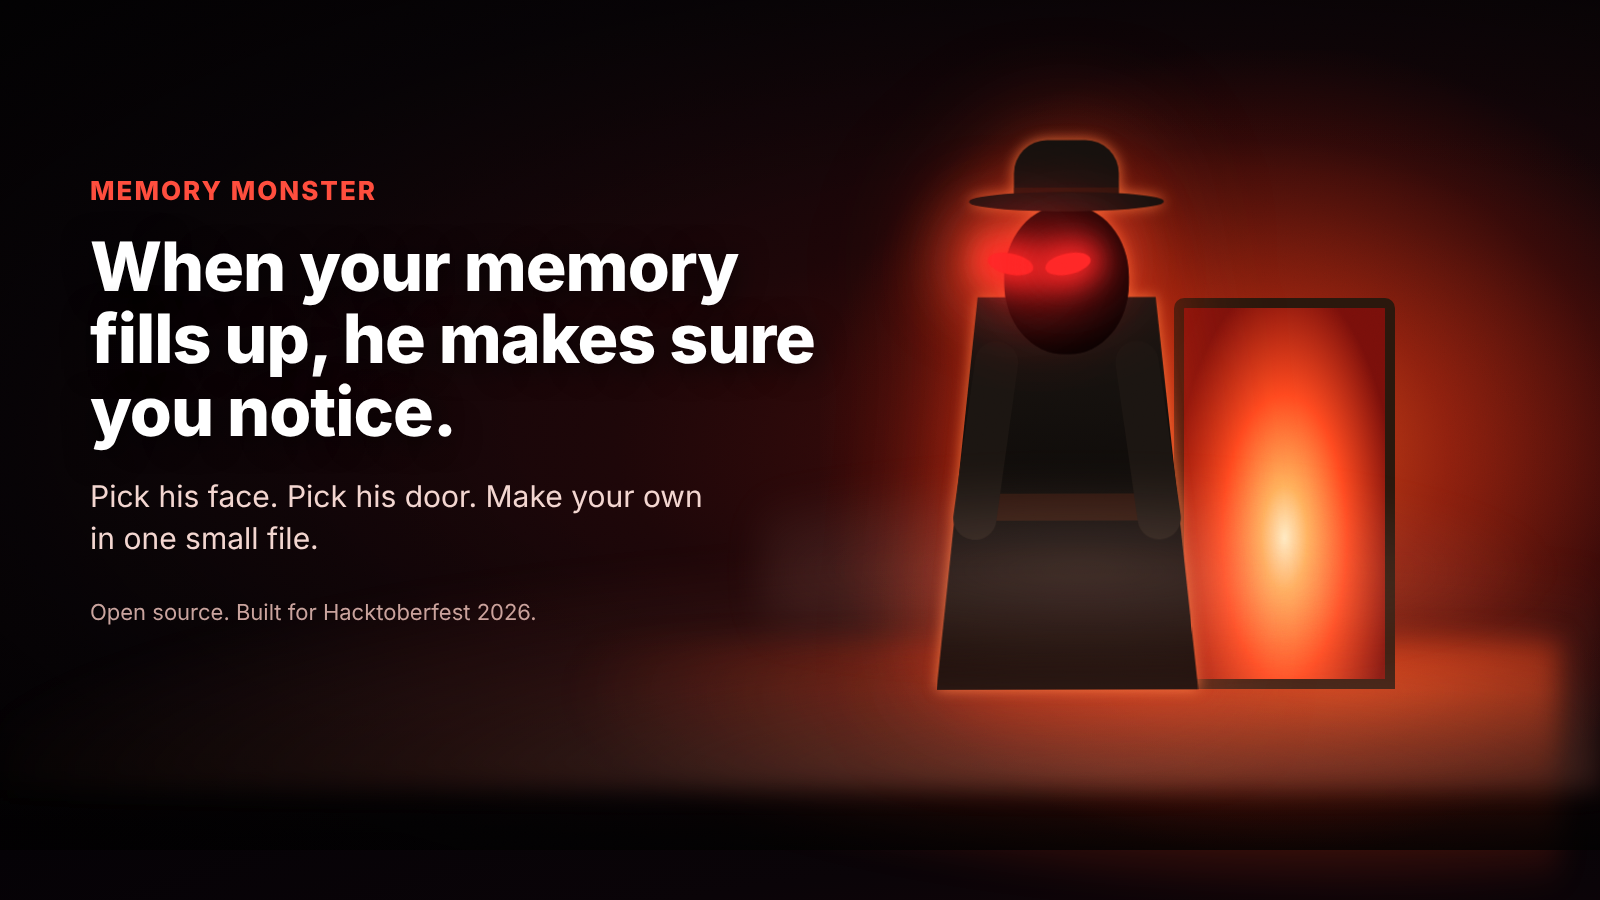
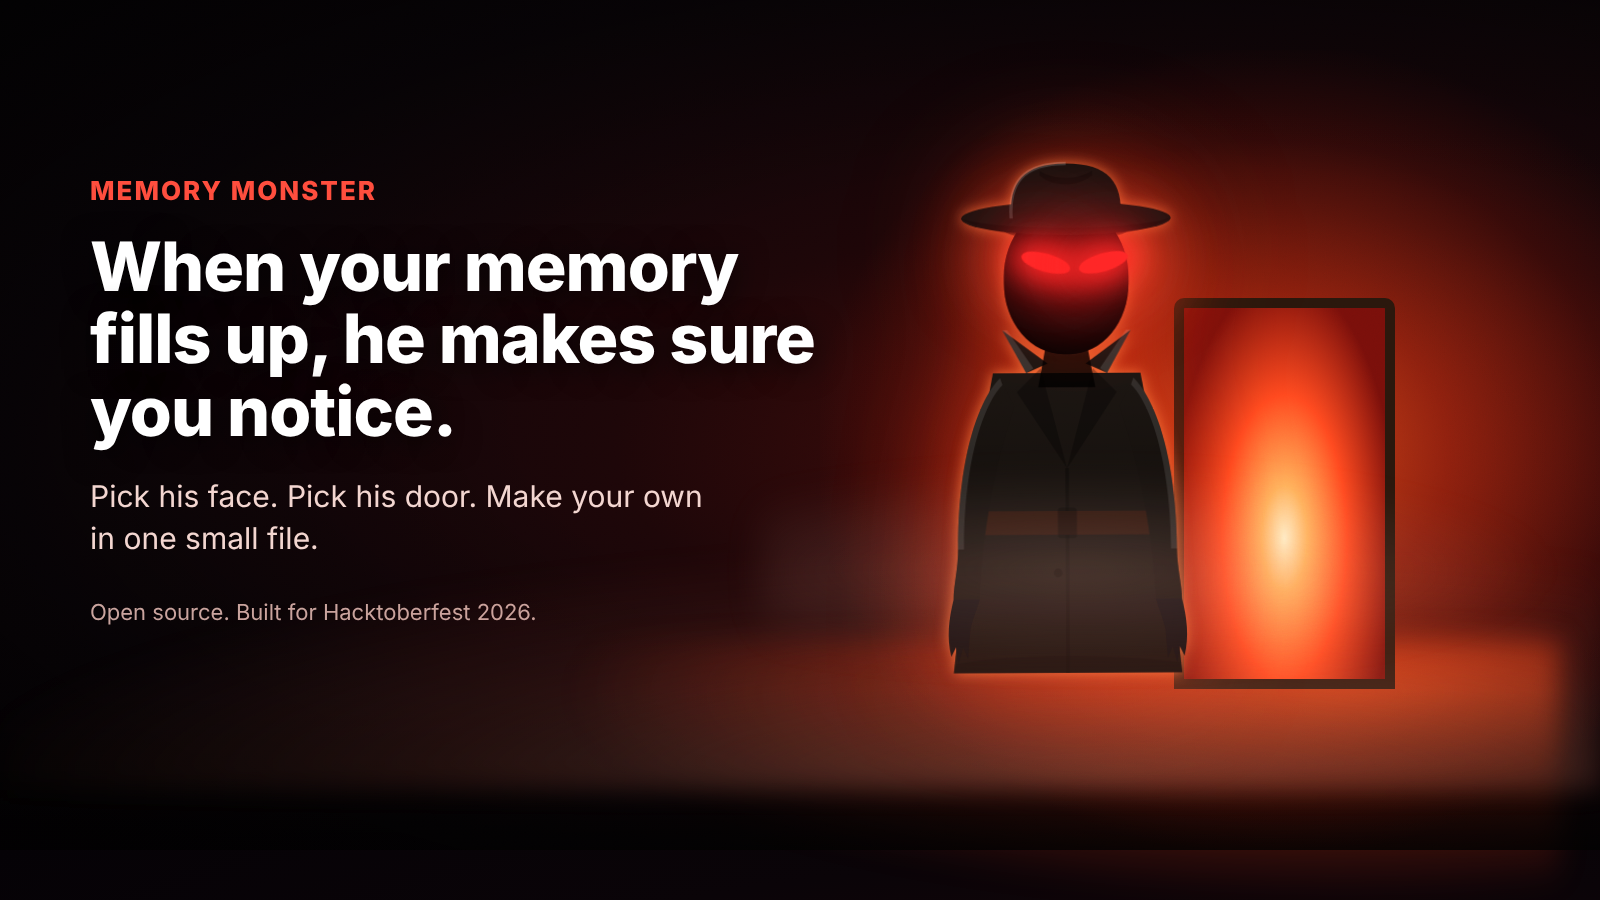
Redraw the figure as shaped artwork: pointed hood with folds, ragged hem, long sleeves with hands, trench collar, tailcoat, rim light and a direct stare; new social card
Idea and design by Cheryl. IP owned 100% by XYZ Agents LLC.

Claude-Session: https://claude.ai/code/session_01EJyYRgLbkmKLzsTfaA8128

Changed region(s): [[0.5625, 0.1244, 0.75, 0.7778]]

diff --git a/memory-monster/components/FigureArt.js b/memory-monster/components/FigureArt.js
@@ -1,0 +1,220 @@
+import { useId } from "react";
+
+// The figure's body, hood and hats, drawn as shapes in a 110 by 225 box. The face and the eyes
+// are separate (see Figure.js) so every face fits every outfit. Colors come from the skin through
+// CSS variables, so a skin never touches this file.
+
+const fill = (v, fallback) => ({ fill: fallback ? `var(${v}, ${fallback})` : `var(${v})` });
+const DARK = "#07070a";
+
+// Long ragged hem, used by the robe and the cloak.
+const RAGGED = "L9 222 L16 213 L23 224 L31 215 L38 225 L46 214 L53 224 L61 215 L69 225 L77 214 L85 224 L92 213 L99 222";
+
+function Hand() {
+  return <path d="M7 187 C5 195 4 203 6 211 L8 207 L9 214 L11 207 L13 212 L14 200 C15 195 17 191 18 187 Z" style={{ fill: DARK }} />;
+}
+
+// One sleeve hanging from the shoulder, ending in a thin hand. The right one is this, mirrored.
+function Sleeve({ shade }) {
+  const d = "M27 94 C17 104 9 130 9 166 C9 174 7 181 7 187 L18 187 C19 170 21 142 33 106 Z";
+  return (
+    <g>
+      <path d={d} style={fill("--coat")} />
+      <path d={d} fill={`url(#${shade})`} />
+      <path d="M27 94 C17 104 9 130 9 166 L11.5 166 C11.5 132 19 106 28 97 Z" fill="#fff" opacity=".1" />
+      <Hand />
+    </g>
+  );
+}
+const Mirror = ({ children }) => <g transform="translate(110 0) scale(-1 1)">{children}</g>;
+
+function Robe({ shade }) {
+  const d = `M26 92 C24 130 14 175 4 214 ${RAGGED} L106 214 C96 175 88 130 84 92 Z`;
+  return (
+    <g>
+      <path d={d} style={fill("--coat")} />
+      <path d={d} fill={`url(#${shade})`} />
+      <path d="M40 110 C38 150 32 190 28 218 L34 216 C40 190 44 150 46 112 Z" fill="#000" opacity=".3" />
+      <path d="M66 108 C70 150 76 190 80 218 L74 217 C68 190 62 150 60 110 Z" fill="#000" opacity=".32" />
+      <path d="M52 100 L58 100 L60 220 L50 220 Z" fill="#000" opacity=".22" />
+      <path d="M26 92 C24 130 14 175 4 214 L7 214 C16 175 27 130 28.5 94 Z" fill="#fff" opacity=".12" />
+      <path className="fringe" d={`M4 212 ${RAGGED} L106 212 L106 218 L4 218 Z`} style={fill("--coat")} opacity=".9" />
+    </g>
+  );
+}
+
+function Cloak({ shade }) {
+  const d = "M26 92 C18 130 6 178 0 214 L6 222 L14 213 L22 224 L30 215 L38 225 L46 214 L53 224 L61 215 L69 225 L77 214 L85 224 L93 213 L101 222 L110 214 C104 178 92 130 84 92 Z";
+  return (
+    <g>
+      <path d={d} style={fill("--coat")} />
+      <path d={d} fill={`url(#${shade})`} />
+      <path d="M0 214 C20 205 40 203 55 203 C70 203 90 205 110 214 L110 220 C90 211 70 209 55 209 C40 209 20 211 0 220 Z" style={fill("--accent", "#7f1d1d")} opacity=".9" />
+      <path d="M38 104 C34 150 22 190 10 214 L18 212 C30 186 42 150 46 106 Z" fill="#000" opacity=".25" />
+      <path d="M72 104 C76 150 88 190 100 214 L92 212 C80 186 68 150 64 106 Z" fill="#000" opacity=".25" />
+      <circle cx="55" cy="101" r="4.6" style={fill("--accent", "#7f1d1d")} />
+      <circle cx="53.6" cy="99.6" r="1.4" fill="#fff" opacity=".5" />
+    </g>
+  );
+}
+
+function Trench({ shade }) {
+  const d = "M24 92 C18 122 12 172 7 218 L103 218 C98 172 92 122 86 92 Z";
+  return (
+    <g>
+      <path d={d} style={fill("--coat")} />
+      <path d={d} fill={`url(#${shade})`} />
+      <path d="M44 90 L55 132 L34 100 Z" fill="#000" opacity=".3" />
+      <path d="M66 90 L55 132 L76 100 Z" fill="#000" opacity=".3" />
+      <path d="M38 92 L28 74 L47 88 Z" style={fill("--coat")} />
+      <path d="M72 92 L82 74 L63 88 Z" style={fill("--coat")} />
+      <path d="M38 92 L28 74 L30 74 L41 90 Z M72 92 L82 74 L80 74 L69 90 Z" fill="#fff" opacity=".12" />
+      <path d="M55 132 L55 218" stroke="#000" strokeOpacity=".35" strokeWidth="1.5" />
+      <circle cx="51" cy="152" r="1.8" fill="#000" opacity=".5" />
+      <circle cx="51" cy="176" r="1.8" fill="#000" opacity=".5" />
+      <path d="M15 150 L95 150 L96 160 L14 160 Z" style={fill("--accent", "#3b2a1a")} />
+      <rect x="51" y="148.5" width="8" height="13" rx="1.5" fill="#000" opacity=".4" />
+      <path d="M8 214 C30 210 80 210 102 214 L103 218 L7 218 Z" fill="#000" opacity=".3" />
+    </g>
+  );
+}
+
+function Tails({ shade }) {
+  const d = "M28 92 C22 130 14 180 10 222 L40 222 L55 160 L70 222 L100 222 C96 180 88 130 82 92 Z";
+  return (
+    <g>
+      <path d={d} style={fill("--coat")} />
+      <path d={d} fill={`url(#${shade})`} />
+      <path d="M44 94 L55 136 L66 94 Z" fill="#d6d6de" opacity=".92" />
+      <path d="M44 94 L55 136 L66 94 L62 92 L55 112 L48 92 Z" fill="#000" opacity=".15" />
+      <path d="M50 96 L55 98 L60 96 L61 103 L55 100 L49 103 Z" style={fill("--accent", "#7f1d1d")} />
+      <circle cx="55" cy="98.5" r="2" style={fill("--accent", "#7f1d1d")} />
+      <path d="M28 92 C22 130 14 180 10 222 L13 222 C17 180 25 132 30 94 Z" fill="#fff" opacity=".1" />
+    </g>
+  );
+}
+
+function Hoodie({ shade }) {
+  const d = "M26 92 C21 110 19 130 19 152 L91 152 C91 130 89 110 84 92 Z";
+  return (
+    <g>
+      <path d="M24 150 L54 150 L52 220 L26 220 Z M56 150 L86 150 L84 220 L58 220 Z" style={fill("--accent", "#1e3a8a")} />
+      <path d="M24 150 L54 150 L52 220 L26 220 Z M56 150 L86 150 L84 220 L58 220 Z" fill={`url(#${shade})`} />
+      <path d="M26 220 L52 220 L53 225 L24 225 Z M58 220 L84 220 L86 225 L57 225 Z" fill={DARK} />
+      <path d={d} style={fill("--coat")} />
+      <path d={d} fill={`url(#${shade})`} />
+      <path d="M33 128 L77 128 L83 150 L27 150 Z" fill="#000" opacity=".28" />
+      <path d="M47 100 L47 124 M63 100 L63 124" stroke="#d4d4d8" strokeWidth="1.6" strokeLinecap="round" />
+      <path d="M19 150 L91 150 L91 156 L19 156 Z" fill="#000" opacity=".3" />
+    </g>
+  );
+}
+
+function HoodieSleeve({ shade }) {
+  const d = "M27 94 C17 104 11 124 11 148 L11 158 L22 158 C22 140 24 124 33 106 Z";
+  return (
+    <g>
+      <path d={d} style={fill("--coat")} />
+      <path d={d} fill={`url(#${shade})`} />
+      <path d="M11 154 L22 154 L22 160 L11 160 Z" fill="#000" opacity=".35" />
+      <path d="M11 160 C10 168 10 176 12 184 L14 180 L16 187 L18 180 L21 184 L22 170 L22 160 Z" fill={DARK} />
+    </g>
+  );
+}
+
+// The hood and the cape over the shoulders, with a deep opening where the face sits.
+function HoodBack({ open }) {
+  const d = "M55 2 C70 3 86 16 90 40 C92 56 91 70 96 84 C99 92 104 98 106 104 C90 100 78 102 55 104 C32 102 20 100 4 104 C6 98 11 92 14 84 C19 70 18 56 20 40 C24 16 40 3 55 2 Z";
+  return (
+    <g>
+      <path d={d} style={fill("--hood")} />
+      <path d="M30 60 C28 80 30 92 24 100 M80 60 C82 80 80 92 86 100 M42 20 C36 40 34 56 36 70 M68 20 C74 40 76 56 74 70" stroke="#000" strokeOpacity=".3" strokeWidth="2.6" fill="none" strokeLinecap="round" />
+      <path d="M55 3 C40 4 26 16 22 40" stroke="#fff" strokeOpacity=".16" strokeWidth="1.6" fill="none" strokeLinecap="round" />
+      <ellipse cx="55" cy="55" rx="34" ry="39" fill={`url(#${open})`} />
+    </g>
+  );
+}
+
+// In front of the face: the lip of the hood.
+function HoodLip() {
+  return (
+    <g>
+      <ellipse cx="55" cy="55" rx="31.5" ry="36.5" fill="none" style={{ stroke: "var(--hood)" }} strokeWidth="7" />
+      <ellipse cx="55" cy="55" rx="28" ry="33" fill="none" stroke="#000" strokeOpacity=".4" strokeWidth="2.2" />
+    </g>
+  );
+}
+
+function Fedora() {
+  return (
+    <g>
+      <ellipse cx="55" cy="31" rx="27" ry="5.5" fill="#000" opacity=".5" />
+      <path d="M32 27 C31 12 37 4 55 4 C73 4 79 12 78 27 Z" style={fill("--hood")} />
+      <path d="M44 7 C50 11 60 11 66 7 L66 9 C60 14 50 14 44 9 Z" fill="#000" opacity=".3" />
+      <path d="M32 21 L78 21 L78 27 L32 27 Z" style={fill("--accent", "#2a1a0f")} />
+      <ellipse cx="55" cy="27" rx="44" ry="7" style={fill("--hood")} />
+      <path d="M11 27 C20 33 40 35 55 35 C70 35 90 33 99 27 C90 30 70 31 55 31 C40 31 20 30 11 27 Z" fill="#000" opacity=".35" />
+      <path d="M32 27 C31 12 37 4 55 4" stroke="#fff" strokeOpacity=".16" strokeWidth="1.4" fill="none" />
+    </g>
+  );
+}
+
+function TopHat() {
+  return (
+    <g>
+      <ellipse cx="55" cy="33" rx="26" ry="5" fill="#000" opacity=".5" />
+      <path d="M36 28 L37 4 C45 2 65 2 73 4 L74 28 Z" style={fill("--hood")} />
+      <path d="M37 21 L73 21 L74 28 L36 28 Z" style={fill("--accent", "#7f1d1d")} />
+      <ellipse cx="55" cy="4" rx="18" ry="2.6" fill="#fff" opacity=".1" />
+      <ellipse cx="55" cy="28" rx="31" ry="5.2" style={fill("--hood")} />
+      <path d="M38 6 L38 26" stroke="#fff" strokeOpacity=".14" strokeWidth="1.6" />
+    </g>
+  );
+}
+
+// Everything behind the face.
+export function BackArt({ outfit }) {
+  const uid = useId().replace(/:/g, "");
+  const shade = `shade${uid}`;
+  const open = `open${uid}`;
+  const hooded = outfit === "hood" || outfit === "cloak" || outfit === "hoodie";
+  const Body = { cloak: Cloak, trench: Trench, tophat: Tails, hoodie: Hoodie }[outfit] || Robe;
+  return (
+    <svg className="art back" viewBox="0 0 110 225" aria-hidden="true">
+      <defs>
+        <linearGradient id={shade} x1="0" y1="0" x2="0" y2="1">
+          <stop offset="0" stopColor="#000" stopOpacity="0" />
+          <stop offset="1" stopColor="#000" stopOpacity=".55" />
+        </linearGradient>
+        <radialGradient id={open} cx=".5" cy=".5" r=".5">
+          <stop offset="0" stopColor="#000" stopOpacity="1" />
+          <stop offset=".78" stopColor="#000" stopOpacity="1" />
+          <stop offset="1" stopColor="#000" stopOpacity="0" />
+        </radialGradient>
+      </defs>
+      <Body shade={shade} />
+      {outfit === "cloak" ? null : outfit === "hoodie" ? (
+        <>
+          <HoodieSleeve shade={shade} />
+          <Mirror><HoodieSleeve shade={shade} /></Mirror>
+        </>
+      ) : (
+        <>
+          <Sleeve shade={shade} />
+          <Mirror><Sleeve shade={shade} /></Mirror>
+        </>
+      )}
+      {!hooded ? <path d="M46 82 L64 82 L67 98 L43 98 Z" fill="#000" opacity=".85" /> : null}
+      {hooded ? <HoodBack open={open} /> : null}
+    </svg>
+  );
+}
+
+// Everything in front of the face: the lip of the hood, or the hat.
+export function FrontArt({ outfit }) {
+  return (
+    <svg className="art front" viewBox="0 0 110 225" aria-hidden="true">
+      {outfit === "trench" ? <Fedora /> : outfit === "tophat" ? <TopHat /> : <HoodLip />}
+    </svg>
+  );
+}

diff --git a/memory-monster/app/globals.css b/memory-monster/app/globals.css
@@ -41,12 +41,15 @@ button:hover { background:#273449; }
 .figure[data-entrance="drop"] { transform: translateY(-160px) scale(.7); }
 .stage.active .figure { opacity: 1; transform: translateX(-90px) scale(1.25); transition: transform 2s ease-out 1.1s, opacity 1.2s 1.1s; }
 .stage.active .figure .fbody { animation: sway 3s infinite ease-in-out; }
+.stage.active .figure { filter: drop-shadow(0 0 5px color-mix(in srgb, var(--door-glow) 65%, transparent)); }
 @keyframes sway { 0%,100% { transform: rotate(-1.5deg); } 50% { transform: rotate(1.5deg); } }
 .fbody { position: absolute; inset: 0; }
-.coat { position: absolute; left: 6px; bottom: 0; width: 98px; height: 165px; background: linear-gradient(var(--coat), #000); clip-path: polygon(28% 0, 72% 0, 100% 100%, 0 100%); }
-.sleeve { position: absolute; top: 78px; width: 18px; height: 84px; background: var(--coat); border-radius: 9px; }
-.sleeve.l { left: 12px; transform: rotate(8deg); } .sleeve.r { right: 12px; transform: rotate(-8deg); }
-.hood { position: absolute; left: 20px; top: 8px; width: 70px; height: 86px; border-radius: 50% 50% 38% 38%; background: var(--hood); box-shadow: inset 0 -6px 12px #000; }
+.art { position: absolute; inset: 0; width: 100%; height: 100%; overflow: visible; pointer-events: none; }
+.art.front { z-index: 3; }
+/* the hem moves a little, like cloth in a draft */
+.stage.active .fringe { transform-box: fill-box; transform-origin: 50% 0; animation: hem 3.4s ease-in-out infinite alternate; }
+@keyframes hem { from { transform: skewX(-2.2deg); } to { transform: skewX(2.2deg); } }
+.hood { position: absolute; left: 20px; top: 8px; width: 70px; height: 86px; }
 .face { position: absolute; left: 9px; top: 14px; width: 52px; height: 62px; border-radius: 48%; background: #000; box-shadow: inset 0 0 14px #000; }
 .face[data-face="skull"] { background: var(--face, #e7e5e4); box-shadow: inset 0 -8px 10px #a8a29e; }
 .face[data-face="mask"] { background: var(--face, #f5f5f4); box-shadow: inset 0 -6px 10px #a8a29e; }
@@ -55,33 +58,13 @@ button:hover { background:#273449; }
 .hair { position: absolute; left: 2px; top: 4px; width: 66px; height: 84px; border-radius: 50% 50% 42% 42%; background: var(--hair, #b7410e); box-shadow: inset 0 -8px 12px rgba(0,0,0,.35); }
 .face[data-face="alien"] { left: 6px; top: 10px; width: 58px; height: 70px; border-radius: 50% 50% 46% 46% / 38% 38% 62% 62%; background: var(--face, #7ed957); box-shadow: inset 0 -10px 14px rgba(0,70,0,.5); }
 .face[data-face="grin"]::after { content: ""; position: absolute; left: 10px; right: 10px; bottom: 10px; height: 14px; border-bottom: 3px solid var(--eye); border-radius: 0 0 50% 50%; box-shadow: 0 6px 10px -4px var(--eye); }
-.reye { position: absolute; top: 42px; width: calc(13px * var(--eye-scale)); height: calc(6px * var(--eye-scale)); border-radius: 50%; background: var(--eye); z-index: 2;
+.reye { position: absolute; top: 42px; width: calc(14px * var(--eye-scale)); height: calc(5px * var(--eye-scale)); border-radius: 50%; background: var(--eye); z-index: 4;
   box-shadow: 0 0 calc(10px * var(--eye-glow)) calc(4px * var(--eye-glow)) var(--eye), 0 0 calc(28px * var(--eye-glow)) calc(10px * var(--eye-glow)) color-mix(in srgb, var(--eye) 70%, transparent);
   animation: eyeflare var(--eye-pulse) infinite alternate; }
 .reye.flick { animation: eyeflare var(--eye-pulse) infinite alternate, eyeflick 3s infinite; }
-.reye.l { left: 22px; transform: rotate(12deg); } .reye.r { left: 46px; transform: rotate(-12deg); }
-/* the default black face keeps the approved sideways glance; every other face has its eyes centered on it */
-.figure:not([data-face="void"]) .reye.l { left: 36px; } .figure:not([data-face="void"]) .reye.r { left: 60px; }
+.reye.l { left: 36px; transform: rotate(16deg); } .reye.r { left: 60px; transform: rotate(-16deg); }
 @keyframes eyeflare { from { filter: brightness(.8); } to { filter: brightness(1.35); } }
 @keyframes eyeflick { 0%,92%,100% { opacity: 1; } 94% { opacity: .2; } 96% { opacity: 1; } 98% { opacity: .3; } }
-
-/* outfits: "hood" is the default and needs no rules */
-.figure[data-outfit="cloak"] .coat { left: -6px; width: 122px; height: 175px; clip-path: polygon(30% 0, 70% 0, 100% 100%, 0 100%);
-  background: linear-gradient(var(--coat) 0 92%, var(--accent, #7f1d1d) 92%); }
-.figure[data-outfit="cloak"] .sleeve { display: none; }
-.figure[data-outfit="trench"] .coat { left: 0; width: 110px; clip-path: polygon(16% 0, 84% 0, 100% 100%, 0 100%);
-  background: linear-gradient(transparent 50%, var(--accent, #78350f) 50% 57%, transparent 57%), linear-gradient(var(--coat), #000); }
-.figure[data-outfit="tophat"] .coat { left: 10px; width: 90px; clip-path: polygon(34% 0, 66% 0, 94% 100%, 6% 100%); background: linear-gradient(var(--coat), #000); }
-.figure[data-outfit="trench"] .hood, .figure[data-outfit="tophat"] .hood { background: transparent; box-shadow: none; }
-.hat { position: absolute; inset: 0; pointer-events: none; z-index: 2; }
-.hat i { position: absolute; display: block; background: var(--hood); }
-.figure[data-outfit="trench"] .brim { left: -6px; top: 8px; width: 82px; height: 8px; border-radius: 50%; }
-.figure[data-outfit="trench"] .crown { left: 13px; top: -14px; width: 44px; height: 26px; border-radius: 14px 14px 3px 3px; border-bottom: 6px solid var(--accent, #78350f); }
-.figure[data-outfit="tophat"] .brim { left: 4px; top: 8px; width: 62px; height: 6px; border-radius: 3px; }
-.figure[data-outfit="tophat"] .crown { left: 14px; top: -36px; width: 42px; height: 46px; border-radius: 3px; border-bottom: 7px solid var(--accent, #7f1d1d); }
-.legs { position: absolute; left: 12px; bottom: 0; width: 86px; height: 62px; background: linear-gradient(90deg, var(--accent, #1e3a8a) 0 47%, transparent 47% 53%, var(--accent, #1e3a8a) 53%); }
-.figure[data-outfit="hoodie"] .coat { bottom: 56px; height: 112px; clip-path: polygon(22% 0, 78% 0, 100% 100%, 0 100%); }
-.figure[data-outfit="hoodie"] .hood::after { content: ""; position: absolute; left: 29px; top: 84px; width: 10px; height: 24px; border-left: 2px solid #d4d4d8; border-right: 2px solid #d4d4d8; }
 
 /* alert card: pinned top-left so it never covers the door or the figure */
 .card { position: absolute; left: 14px; top: 14px; z-index: 6; width: min(360px, 46%); padding: 12px 14px; border-radius: 12px; background: #150808; color: #fecaca;

diff --git a/memory-monster/tests/looks.test.js b/memory-monster/tests/looks.test.js
@@ -6,6 +6,7 @@ import { applyLook, skinToJson } from "../lib/looks.js";
 import { FACES, OUTFITS, DOORS, OPENS, ENTRANCES, ids } from "../lib/skinOptions.js";
 
 const css = fs.readFileSync(new URL("../app/globals.css", import.meta.url), "utf8");
+const art = fs.readFileSync(new URL("../components/FigureArt.js", import.meta.url), "utf8");
 
 test("an empty look leaves the skin alone", () => {
   assert.deepEqual(applyLook(DEFAULT_SKIN, {}).skin, DEFAULT_SKIN);
@@ -43,15 +44,18 @@ test("every look in the picker passes the skin checker", () => {
   for (const e of ids(ENTRANCES)) assert.deepEqual(applyLook(DEFAULT_SKIN, { entrance: { style: e } }).problems, [], e);
 });
 
-test("every look in the picker has a rule in the stylesheet (the default look needs none)", () => {
+test("every face, door and entrance in the picker has a rule in the stylesheet (the default look needs none)", () => {
   const need = [
     ...ids(FACES).filter((i) => i !== "void").map((i) => `data-face="${i}"`),
-    ...ids(OUTFITS).filter((i) => i !== "hood").map((i) => `data-outfit="${i}"`),
     ...ids(DOORS).filter((i) => i !== "wood").map((i) => `data-door="${i}"`),
     ...ids(OPENS).filter((i) => i !== "swing").map((i) => `data-opens="${i}"`),
     ...ids(ENTRANCES).filter((i) => i !== "walk-out").map((i) => `data-entrance="${i}"`),
   ];
   for (const rule of need) assert.ok(css.includes(rule), `no style rule for ${rule}`);
+});
+
+test("every outfit in the picker is drawn in components/FigureArt.js (the hood outfit is the default drawing)", () => {
+  for (const id of ids(OUTFITS).filter((i) => i !== "hood")) assert.ok(art.includes(`"${id}"`), `no drawing for the ${id} outfit`);
 });
 
 test("the copied skin.json is a complete skin that passes the checker", () => {

diff --git a/memory-monster/components/Figure.js b/memory-monster/components/Figure.js
@@ -1,3 +1,5 @@
+import { BackArt, FrontArt } from "./FigureArt";
+
 // The door and the figure, drawn from a skin. Used by the main scene and by every thumbnail,
 // so a thumbnail always shows exactly what the real scene will show.
 
@@ -34,24 +36,15 @@ export function Door({ skin }) {
 
 export function Figure({ skin }) {
   const outfit = skin.outfit.style;
-  const hat = outfit === "trench" || outfit === "tophat";
   return (
     <div className="figure" data-entrance={skin.entrance.style} data-outfit={outfit} data-face={skin.face.style}>
       <div className="fbody">
-        {outfit === "hoodie" ? <div className="legs" /> : null}
-        <div className="coat" />
-        <div className="sleeve l" />
-        <div className="sleeve r" />
+        <BackArt outfit={outfit} />
         <div className="hood">
           {skin.face.style === "redhead" ? <div className="hair" /> : null}
           <div className="face" data-face={skin.face.style} />
-          {hat ? (
-            <div className="hat">
-              <i className="crown" />
-              <i className="brim" />
-            </div>
-          ) : null}
         </div>
+        <FrontArt outfit={outfit} />
         <div className={`reye l${skin.eyes.flicker ? " flick" : ""}`} />
         <div className={`reye r${skin.eyes.flicker ? " flick" : ""}`} />
       </div>

diff --git a/memory-monster/CONTRIBUTING.md b/memory-monster/CONTRIBUTING.md
@@ -29,7 +29,7 @@ The rules everyone keeps:
 - Real readings only. The only made-up numbers are the ones labelled as sample data during **Test the figure**.
 - The helper stays on `127.0.0.1`, keeps the code check, and keeps its list of protected system programs.
 
-Adding a new face, outfit, door or entrance takes three things: add it to the list in `lib/skinOptions.js`, give it a style rule in `app/globals.css`, and look at its thumbnail in the Look Studio. `npm test` fails if a look is in the list without a style rule.
+Adding a new face, outfit, door or entrance takes three things: add it to the list in `lib/skinOptions.js`, give it its look (a style rule in `app/globals.css` for a face, door or entrance, or a drawing in `components/FigureArt.js` for an outfit), and look at its thumbnail in the Look Studio. `npm test` fails if a look is in the list without a style rule or drawing.
 
 Keep each pull request to one change and say how you tested it. Run `npm test` before you open it.
 

diff --git a/README.md b/README.md
@@ -58,7 +58,7 @@ npm test
 **Good first changes.**
 
 - **A new skin.** One small `skin.json` file in `community-skins/`. Copy `skins/_template`, or press Copy as skin.json in the Look Studio. [How to make one](memory-monster/MAKE-YOUR-OWN-FIGURE.md).
-- **A new face, outfit, door or entrance.** Add it to `lib/skinOptions.js` and give it a style rule in `app/globals.css`. The tests fail if a look has no style rule.
+- **A new face, outfit, door or entrance.** Add it to `lib/skinOptions.js`. Faces, doors and entrances get a style rule in `app/globals.css`; outfits are drawn in `components/FigureArt.js`. The tests fail if a look has no style rule or drawing.
 - **Docs and accessibility fixes.**
 - A Mac or Linux version would be its own game, not a port, because those systems handle memory differently. Open an issue first so we can talk about the design.
 
